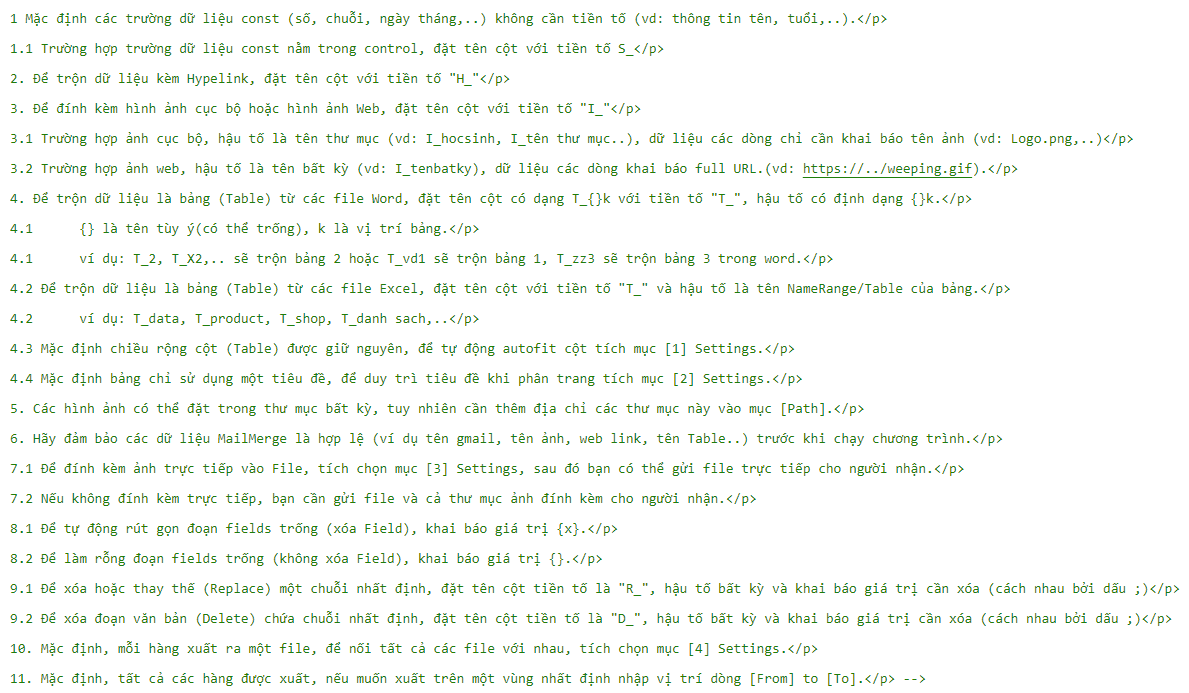
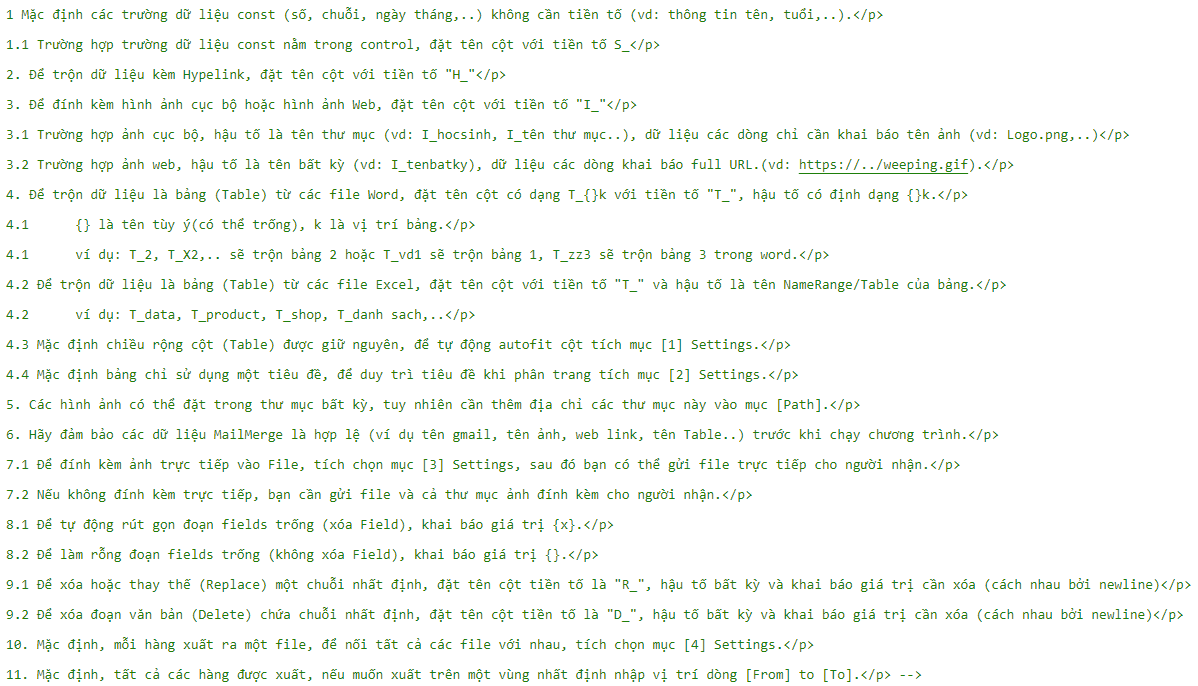
ok

Changed region(s): [[0.0, 0.3673, 0.9958, 0.8571], [0.0, 0.0, 0.9647, 0.3367], [0.0, 0.8878, 0.9958, 1.0]]

diff --git a/r.mailmerge.html b/r.mailmerge.html
@@ -68,8 +68,8 @@
         <p>&nbsp;   7.2 Nếu không đính kèm trực tiếp, bạn cần gửi file và cả thư mục ảnh đính kèm cho người nhận.</p>
         <p>&nbsp;   8.1 Để tự động rút gọn đoạn fields trống (xóa Field), khai báo giá trị {x}.</p>
         <p>&nbsp;   8.2 Để làm rỗng đoạn fields trống (không xóa Field), khai báo giá trị {}.</p>
-        <p>&nbsp;   9.1 Để xóa hoặc thay thế (Replace) một chuỗi nhất định, đặt tên cột tiền tố là "R_", hậu tố bất kỳ và khai báo giá trị cần xóa (cách nhau bởi dấu ;)</p>
-        <p>&nbsp;   9.2 Để xóa đoạn văn bản (Delete) chứa chuỗi nhất định, đặt tên cột tiền tố là "D_", hậu tố bất kỳ và khai báo giá trị cần xóa (cách nhau bởi dấu ;)</p>
+        <p>&nbsp;   9.1 Để xóa hoặc thay thế (Replace) một chuỗi nhất định, đặt tên cột tiền tố là "R_", hậu tố bất kỳ và khai báo giá trị cần xóa (cách nhau bởi newline)</p>
+        <p>&nbsp;   9.2 Để xóa đoạn văn bản (Delete) chứa chuỗi nhất định, đặt tên cột tiền tố là "D_", hậu tố bất kỳ và khai báo giá trị cần xóa (cách nhau bởi newline)</p>
         <p>&nbsp;   10. Mặc định, mỗi hàng xuất ra một file, để nối tất cả các file với nhau, tích chọn mục [4] Settings.</p>
         <p>&nbsp;   11. Mặc định, tất cả các hàng được xuất, nếu muốn xuất trên một vùng nhất định nhập vị trí dòng [From] to [To].</p> -->
         <img src="gif/r.mailmerge.note.png">
